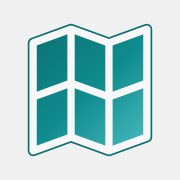
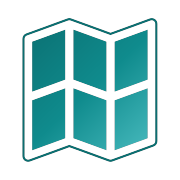
pwa test

Changed region(s): [[0.1111, 0.0833, 0.8889, 0.9167]]

diff --git a/nuxt.config.ts b/nuxt.config.ts
@@ -34,12 +34,9 @@ export default defineNuxtConfig({
       scope: '/',
       icons: [
         { src: '/icon-180.png', sizes: '180x180', type: 'image/png' },
-        { src: '/icon-180-dark.png', sizes: '180x180', type: 'image/png', media: '(prefers-color-scheme: dark)' },
-        { src: '/icon-192.png', sizes: '192x192', type: 'image/png' },
-        { src: '/icon-192-dark.png', sizes: '192x192', type: 'image/png', media: '(prefers-color-scheme: dark)' },
-        { src: '/icon-512.png', sizes: '512x512', type: 'image/png', purpose: 'any maskable' },
-        { src: '/icon-512-dark.png', sizes: '512x512', type: 'image/png', purpose: 'any maskable', media: '(prefers-color-scheme: dark)' }
-      ] as Array<{ src: string; sizes: string; type: string; purpose?: string; media?: string }>,
+        { src: '/icon-192.png', sizes: '192x192', type: 'image/png', purpose: 'any' },
+        { src: '/icon-512.png', sizes: '512x512', type: 'image/png', purpose: 'maskable' }
+      ],
       // Installed PWA opens .json / .geojson map files directly (Chromium); the
       // launchQueue consumer in App.vue reads them and imports as a new map.
       file_handlers: [